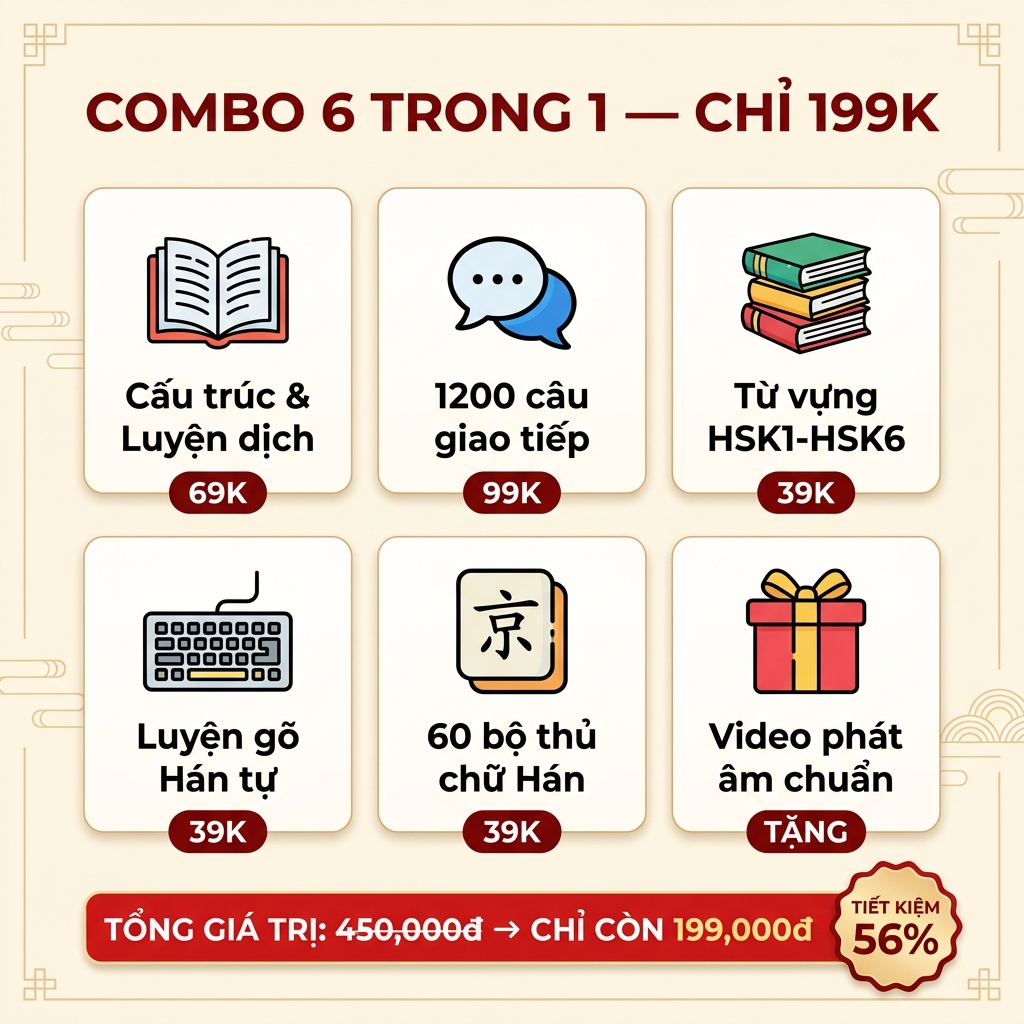
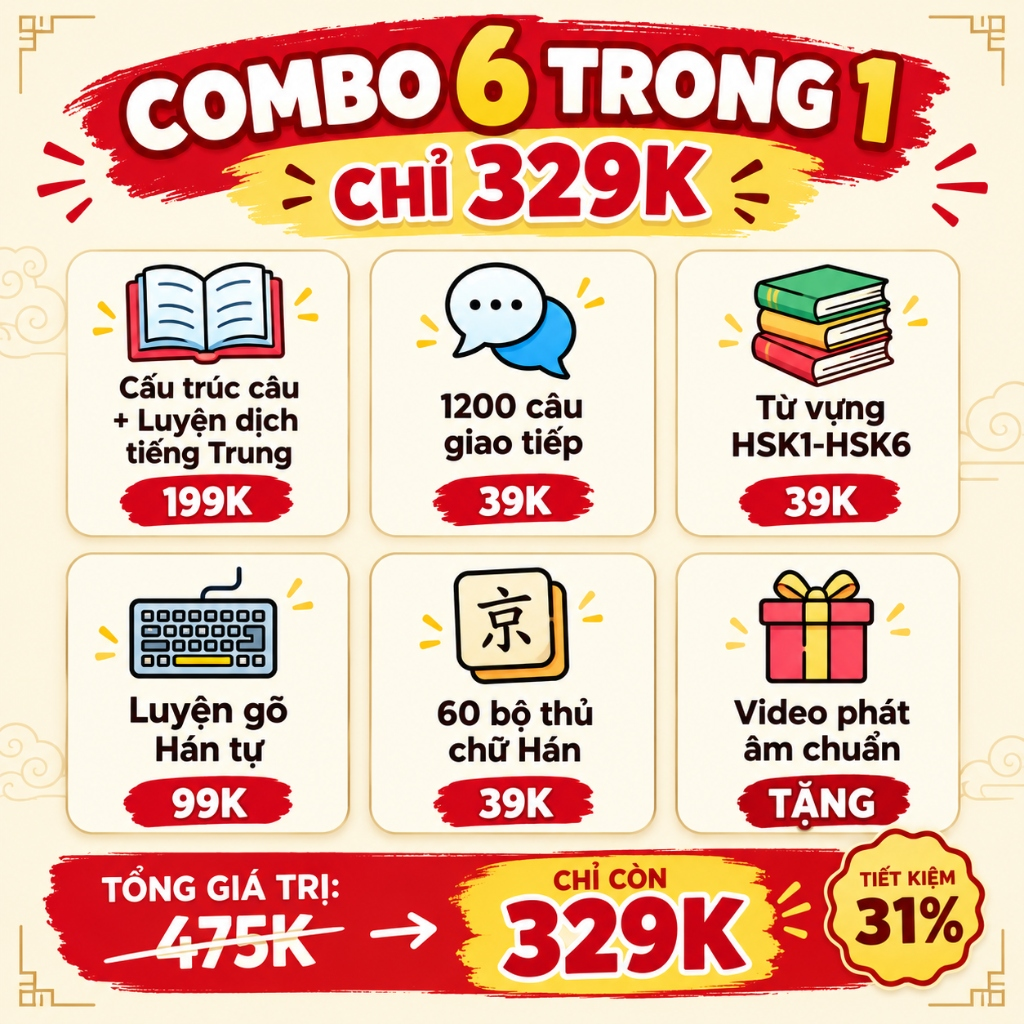
Cập nhật: giá Luyện Gõ 49k, video trọn bộ mới, ảnh bìa combo mới

diff --git a/sp/product.js b/sp/product.js
@@ -21,8 +21,8 @@ const PRODUCTS = {
     desc: 'Combo trọn bộ 6 gói tài liệu + Video bài giảng Cấu trúc chi tiết. Bao gồm: Cấu trúc + Luyện dịch, Từ vựng HSK1-6, 1200 câu giao tiếp + Video, Luyện gõ Hán tự, 60 bộ thủ, Video phát âm.',
     priceSale: '329,000₫', priceOld: '599,000₫', discount: 'Tiết kiệm 45%',
     sold: 'Đã bán 3.1K+', headerTitle: 'Combo 6 trong 1',
-    videoId: 'g8p1BpPhAUY',
-    slides: ['/images/combo-overview.webp', '/ảnh cover sp/Cấu trúc và luyện dịch tiếng Trung.png', '/ảnh cover sp/1200 câu.png', '/ảnh cover sp/Từ vựng tiếng Trung từ hsk 1 đến hsk 6.png', '/ảnh cover sp/Luyện gõ Hán tự.png', '/ảnh cover sp/60 bộ thủ chữ hán.png'],
+    videoId: 'YnYh4bjhYZk',
+    slides: ['/images/combo-overview.png', '/ảnh cover sp/Cấu trúc và luyện dịch tiếng Trung.png', '/ảnh cover sp/1200 câu.png', '/ảnh cover sp/Từ vựng tiếng Trung từ hsk 1 đến hsk 6.png', '/ảnh cover sp/Luyện gõ Hán tự.png', '/ảnh cover sp/60 bộ thủ chữ hán.png'],
     features: [
       'Cấu trúc câu + Luyện dịch tiếng Trung (30+ cấu trúc)',
       '🎬 Video bài giảng Cấu trúc hướng dẫn chi tiết',
@@ -564,7 +564,7 @@ if (!P.book) {
 
 // ============ UPSELL BANNER ============
 const COVER_IMAGES = {
-  'tron-bo': '/images/combo-overview.webp',
+  'tron-bo': '/images/combo-overview.png',
   'cau-truc': '/ảnh cover sp/Cấu trúc và luyện dịch tiếng Trung.png',
   '1200-cau': '/ảnh cover sp/1200 câu.png',
   'tu-vung': '/ảnh cover sp/Từ vựng tiếng Trung từ hsk 1 đến hsk 6.png',

diff --git a/index.html b/index.html
@@ -148,7 +148,7 @@
         <div class="h-card-img"><img src="ảnh cover sp/Luyện gõ Hán tự.png" alt="Luyện gõ Hán tự" loading="lazy"></div>
         <div class="h-card-body">
           <h3>Luyện Gõ Hán Tự HSK1–3</h3>
-          <div class="h-card-price"><span class="h-price-sale">39,000₫</span><span class="h-price-old">100,000₫</span></div>
+          <div class="h-card-price"><span class="h-price-sale">49,000₫</span><span class="h-price-old">100,000₫</span></div>
           <div class="h-card-meta" style="display: none;"><i class="fas fa-star"></i> 4.8 | 980+</div>
         </div>
       </a>
